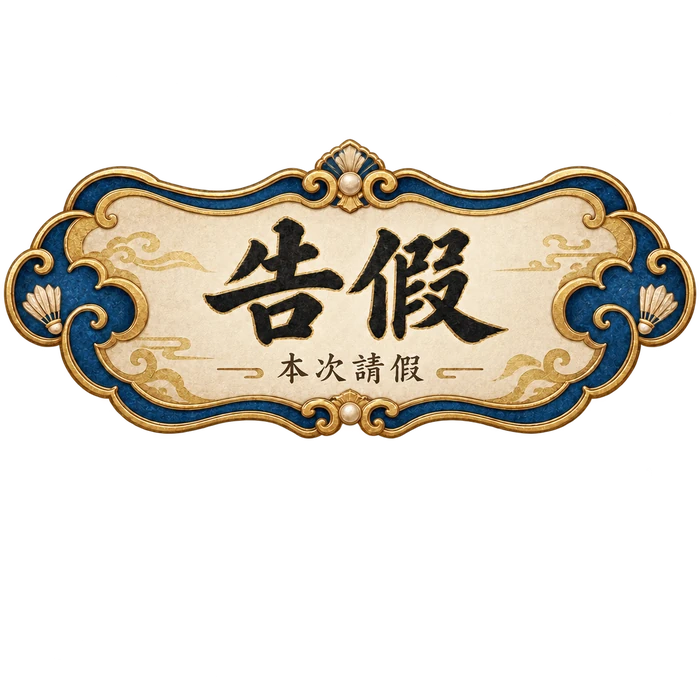
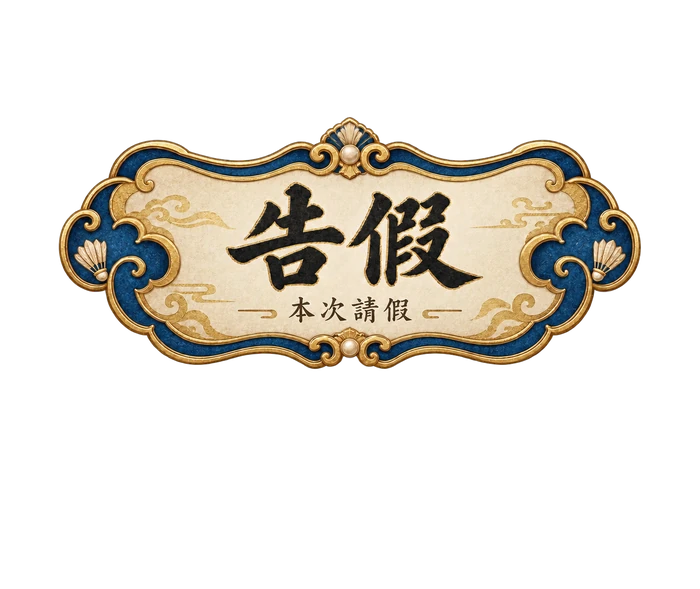
fix(v8-active): letterbox CTA plaques onto shared canvas instead of CSS width hack
回滾剛剛的 CSS 寬度縮放修法(那樣會讓長方形的歸陣/退陣超出卷軸範圍，比原本
更糟)。改用已報/尚缺/候補繪馬牌同款做法：三張CTA牌匾(告假/歸陣/退陣)的
-source.png 原圖不變，但三個顯示用 .webp 都重新輸出到同一個 1491x1254
透明畫布上(內容置中、不拉伸縮放)，三張圖現在像素尺寸完全一致，程式端不用
再算任何per-asset的寬高補償。

Changed region(s): [[0.0, 0.1834, 1.0, 0.6418]]

diff --git a/src/components/v8-active/V8ActivePage.tsx b/src/components/v8-active/V8ActivePage.tsx
@@ -835,28 +835,22 @@ function identityTagAsset(identity: CurrentIdentity, assets: V8IdentityAssets) {
 
 // Same mapping primaryActionLabel used for text -- now picks the matching
 // CTA plaque image instead (告假=本週請假, 歸陣=恢復出席, 退陣=取消報名).
+// 2026-09-10: 告假/歸陣/退陣 were originally three different-aspect-ratio
+// crops (告假 700x700 square, 歸陣 700x495, 退陣 700x525), which -- even
+// though the same center-point positioning kept them all correctly
+// centered -- rendered at visibly different sizes and read as one "sinking"
+// relative to the others. A first fix widened the narrower two via CSS to
+// match height, but that made them overflow past the scroll's own edge
+// (worse, not better) -- reverted. Same fix as the 已報/尚缺/候補 ema
+// plaques instead: the three source PNGs are unchanged, but all three
+// display .webp files are now letterboxed onto the SAME 1491x1254 canvas
+// (content centered, not stretched/scaled) before export, so they're
+// pixel-dimension-identical and need no per-asset sizing logic at all.
 function primaryActionAsset(identity: CurrentIdentity, assets: V8IdentityAssets) {
   if (identity.signupType === "fixed") {
     return identity.status === "leave" ? assets.ctaSeasonReturn : assets.ctaSeasonLeave;
   }
   return assets.ctaTempCancel;
-}
-
-// The three CTA plaques aren't the same aspect ratio (告假 is a 700x700
-// square, 歸陣 is a 700x495 landscape rectangle, 退陣 is 700x525) -- since
-// controls.cta positions/scales around a CENTER point, the same scale value
-// still centers all three correctly, but the landscape ones render visibly
-// SHORTER than the square one, reading as "sunk lower" even though their
-// center never moved (2026-09-10, user report + confirmed via live
-// measurement: both share the exact same center Y). Widening the narrower
-// ones by their own aspect ratio (so width scales but the resulting HEIGHT
-// stays constant across all three) fixes the visual mismatch without
-// touching the position logic at all.
-function primaryActionAspect(identity: CurrentIdentity) {
-  if (identity.signupType === "fixed") {
-    return identity.status === "leave" ? 700 / 495 : 1;
-  }
-  return 700 / 525;
 }
 
 type V8IdentityAssets = {
@@ -955,13 +949,7 @@ export function V8IdentityScrollContent({
         onClick={onPrimaryAction}
         aria-label={busy ? pendingLabel : primaryActionLabel(identity)}
       >
-        <img
-          src={primaryActionAsset(identity, assets)}
-          alt=""
-          aria-hidden="true"
-          draggable={false}
-          style={{ width: `${80 * primaryActionAspect(identity)}px` }}
-        />
+        <img src={primaryActionAsset(identity, assets)} alt="" aria-hidden="true" draggable={false} />
       </button>
       <button
         type="button"
